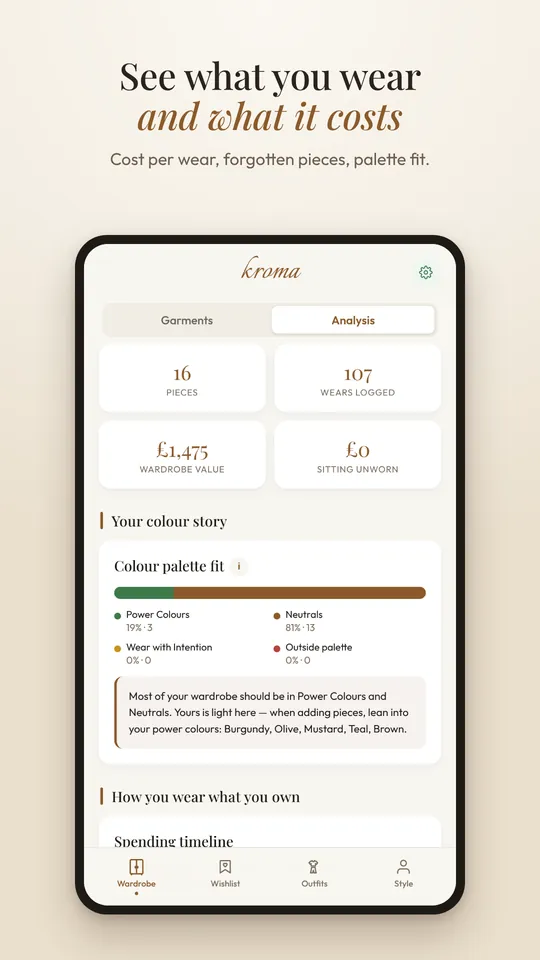
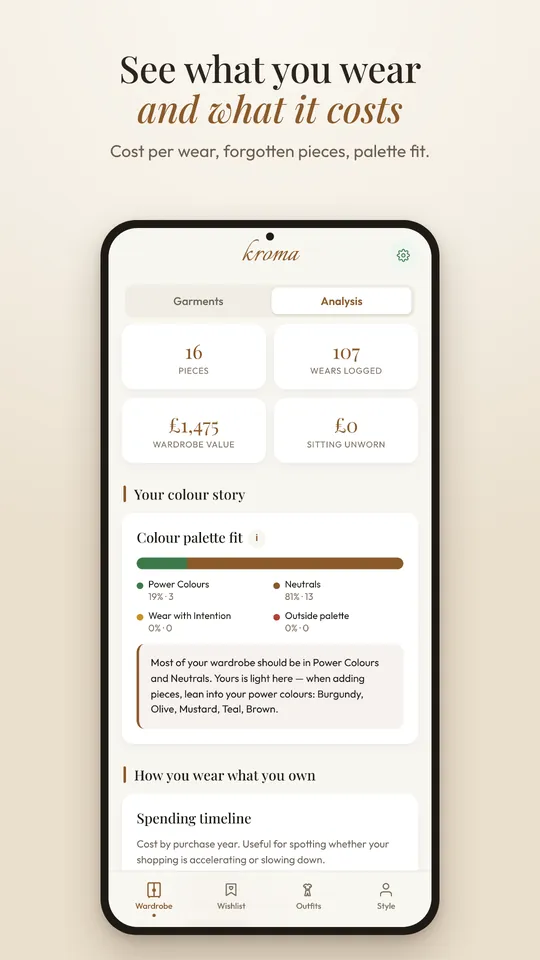
Correct phone proportions in site images; add social links to footer

Changed region(s): [[0.1185, 0.2188, 0.8889, 1.0], [0.2074, 0.0625, 0.8, 0.1875]]

diff --git a/index.html b/index.html
@@ -15,6 +15,10 @@
      fall back to scraped <title> + truncated body text, which is rarely
      flattering.  og:image is the Play Store feature graphic (1024x500,
      JPEG — most platforms ignore SVG previews). -->
+<meta name="twitter:site" content="@kromafit">
+<script type="application/ld+json">
+{"@context":"https://schema.org","@type":"Organization","name":"Kroma","url":"https://kroma.fit/","logo":"https://kroma.fit/apple-touch-icon.png","sameAs":["https://www.linkedin.com/company/kroma-fit/","https://x.com/kromafit","https://www.instagram.com/kroma.fit.app"]}
+</script>
 <meta property="og:type" content="website">
 <meta property="og:site_name" content="Kroma">
 <meta property="og:title" content="Kroma — your wardrobe, private by design">
@@ -103,7 +107,7 @@
              layout shift; loading=eager because it's above the fold. -->
         <img src="/images/hero-wardrobe.webp"
              alt="The Kroma wardrobe tab: a grid of garments — a terracotta paisley scarf, a mustard polka-dot skirt, black jeans and a burgundy hoodie — each with a fit-score badge, price and wear count."
-             width="780" height="1360"
+             width="678" height="1430"
              loading="eager"
              decoding="async">
       </div>
@@ -302,6 +306,11 @@
       <a href="/privacy">Privacy</a> &middot;
       <a href="/terms">Terms</a> &middot;
       <a href="/feedback/">Feedback</a>
+    </span>
+    <span class="social">
+      <a href="https://www.linkedin.com/company/kroma-fit/" rel="me noopener" target="_blank" aria-label="Kroma on LinkedIn">LinkedIn</a> &middot;
+      <a href="https://x.com/kromafit" rel="me noopener" target="_blank" aria-label="Kroma on X">X</a> &middot;
+      <a href="https://www.instagram.com/kroma.fit.app" rel="me noopener" target="_blank" aria-label="Kroma on Instagram">Instagram</a>
     </span>
   </footer>
 

diff --git a/feedback.html b/feedback.html
@@ -387,6 +387,11 @@ description: Tell us about gaps, mistakes, or things that aren't working — ano
       <a href="/terms">Terms</a> &middot;
       <a href="/feedback/">Feedback</a>
     </span>
+    <span class="social">
+      <a href="https://www.linkedin.com/company/kroma-fit/" rel="me noopener" target="_blank" aria-label="Kroma on LinkedIn">LinkedIn</a> &middot;
+      <a href="https://x.com/kromafit" rel="me noopener" target="_blank" aria-label="Kroma on X">X</a> &middot;
+      <a href="https://www.instagram.com/kroma.fit.app" rel="me noopener" target="_blank" aria-label="Kroma on Instagram">Instagram</a>
+    </span>
   </footer>
 
 </div>

diff --git a/_layouts/default.html b/_layouts/default.html
@@ -24,6 +24,7 @@
 <footer class="site-ft">
 <p>© {{ site.time | date: "%Y" }} Kroma. Local-first wardrobe tools.</p>
 <p><a href="/">Home</a> &middot; <a href="/privacy">Privacy</a> &middot; <a href="/terms">Terms</a></p>
+<p><a href="https://www.linkedin.com/company/kroma-fit/" rel="me noopener" target="_blank" aria-label="Kroma on LinkedIn">LinkedIn</a> &middot; <a href="https://x.com/kromafit" rel="me noopener" target="_blank" aria-label="Kroma on X">X</a> &middot; <a href="https://www.instagram.com/kroma.fit.app" rel="me noopener" target="_blank" aria-label="Kroma on Instagram">Instagram</a></p>
 </footer>
 </body>
 </html>

diff --git a/privacy.html b/privacy.html
@@ -178,6 +178,11 @@
       <a href="/terms">Terms</a> &middot;
       <a href="mailto:hello@kroma.fit">Contact</a>
     </span>
+    <span class="social">
+      <a href="https://www.linkedin.com/company/kroma-fit/" rel="me noopener" target="_blank" aria-label="Kroma on LinkedIn">LinkedIn</a> &middot;
+      <a href="https://x.com/kromafit" rel="me noopener" target="_blank" aria-label="Kroma on X">X</a> &middot;
+      <a href="https://www.instagram.com/kroma.fit.app" rel="me noopener" target="_blank" aria-label="Kroma on Instagram">Instagram</a>
+    </span>
   </footer>
 
 </div>

diff --git a/terms.html b/terms.html
@@ -235,6 +235,11 @@
       <a href="/terms">Terms</a> &middot;
       <a href="mailto:hello@kroma.fit">Contact</a>
     </span>
+    <span class="social">
+      <a href="https://www.linkedin.com/company/kroma-fit/" rel="me noopener" target="_blank" aria-label="Kroma on LinkedIn">LinkedIn</a> &middot;
+      <a href="https://x.com/kromafit" rel="me noopener" target="_blank" aria-label="Kroma on X">X</a> &middot;
+      <a href="https://www.instagram.com/kroma.fit.app" rel="me noopener" target="_blank" aria-label="Kroma on Instagram">Instagram</a>
+    </span>
   </footer>
 
 </div>

diff --git a/style.css b/style.css
@@ -334,7 +334,7 @@ hr {
   max-width: 320px;
   /* aspect-ratio reserves the slot's height before the image loads so
      the rest of the page doesn't jump when it arrives — keeps CLS at 0. */
-  aspect-ratio: 780 / 1360;
+  aspect-ratio: 678 / 1430;
   /* Soft drop shadow gives the phone mockup depth without a hard border.
      Remove or soften if the AI-generated image bakes its own shadow in. */
   filter: drop-shadow(0 12px 32px rgba(30, 27, 22, 0.18));
